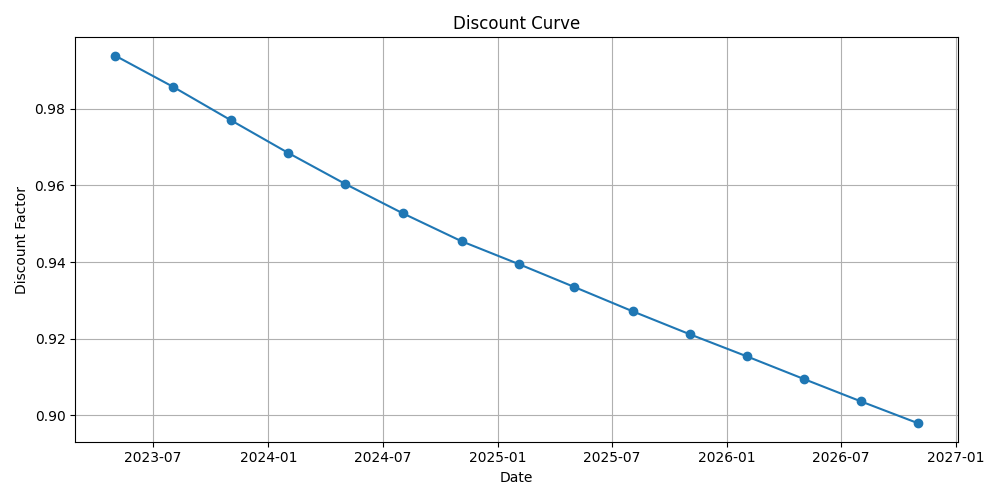
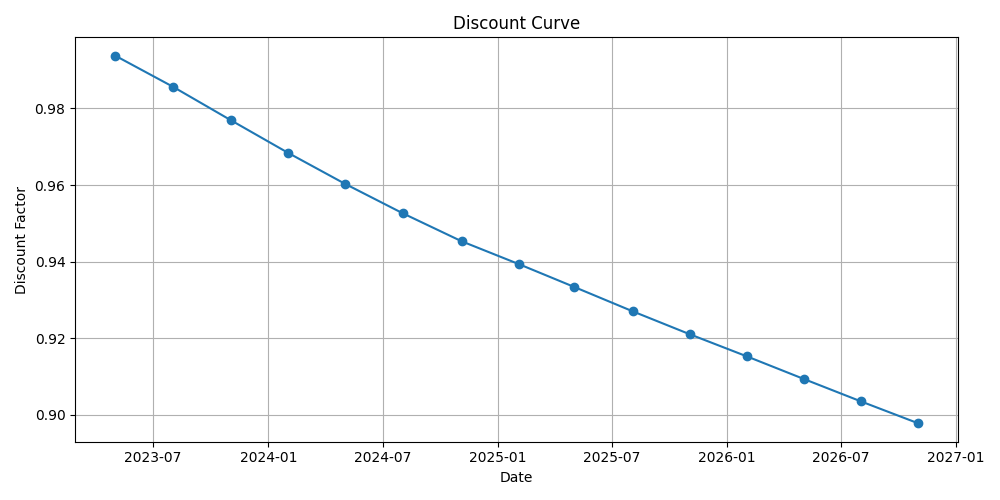
fixed the 2 day gap

diff --git a/discount_curve.py b/discount_curve.py
@@ -74,6 +74,24 @@ def calculate_curve():
     dt, df_depo, df_futures, df_swaps, settle = import_data(data_dir)
 
     dtSettle = dt.loc["Settlement", "TARGET"]
+    dtToday = dt.loc["Today", "TARGET"]
+    
+
+
+
+    try:
+        sn_maturity = dtSettle + pd.Timedelta(days=1)  # 2023-02-03
+        if sn_maturity not in df_depo.index:
+            raise KeyError(f"SN maturity {sn_maturity.date()} not found in df_depo.index")
+
+        r_sn_mid = 0.5 * (float(df_depo.loc[sn_maturity, "BID"]) + float(df_depo.loc[sn_maturity, "ASK"]))
+        tau_gap = yearfrac(dtToday, dtSettle, "ACT/360")
+        D_today_settle = 1.0 / (1.0 + r_sn_mid * tau_gap)
+    except Exception as e:
+        print("WARNING: could not compute D_today_settle from shortest deposit. "
+          "Falling back to 1.0. Error:", repr(e)) #should never fall into this exception but I0ll leve it just in case
+        D_today_settle = 1.0 
+
 
     # `df_futures` is already created in `import_data`; use first 7 points if needed
     if len(df_futures) > 7:
@@ -98,9 +116,12 @@ def calculate_curve():
         for d in payment_dates
     ]
 
+        # Convert P(Settle, T) -> P(Today, T) = P(Today, Settle) * P(Settle, T)
+    discounts_on_schedule = [D_today_settle * D for D in discounts_on_schedule]
+
     discount_curve_schedule = pd.Series(index=payment_dates, data=discounts_on_schedule)
 
-    return discount_curve_schedule
+    return discount_curve_schedule, D_today_settle, dtToday, dtSettle
 
 
 def getContinousInterestRate(D,T):
@@ -110,7 +131,7 @@ def getContinousInterestRate(D,T):
 
 
 print("Calculating discount curve...")
-discount_curve_schedule = calculate_curve()
+discount_curve_schedule, D_today_settle, dtToday, dtSettle = calculate_curve()
 print("Discount curve calculated successfully.")
 print("Interest rates at payment dates:")
 for date, discount in discount_curve_schedule.items():

diff --git a/main.py b/main.py
@@ -13,7 +13,8 @@ from FinDates.daycount import yearfrac #todo check implementation of this yearfr
 def main(N=1000000):        
     print("--------------------------------Question 1--------------------------------")
     print("Discount Curve Calculation and Structured Bond Pricing\n")
-    discount_curve_schedule = calculate_curve()
+    discount_curve_schedule, D_today_settle, dtToday, dtStart = calculate_curve()
+    print(f"D(Today->Start) = {D_today_settle:.10f}")
     
     D_0_4 = discount_curve_schedule.iloc[-1]
     last_date = discount_curve_schedule.index[-1]
@@ -42,6 +43,8 @@ def main(N=1000000):
     dts = [yearfrac(dates[i-1],dates[i], "ACT/360") for i in range (1,len(dates))]
 
     dtSettle = pd.Timestamp("2023-02-02")
+    
+
     dt_first = yearfrac(dtSettle, dates[0], "ACT/360")
     dts = [dt_first] + dts  # ora dts ha 16 elementi come discount_curve_schedule
 
@@ -49,7 +52,7 @@ def main(N=1000000):
     
 
     D_vals = discount_curve_schedule.values  # considering 16 discount factors
-    D_prev = np.concatenate([[1.0], D_vals[:-1]]) #todo not uqite sure on the 1 considering the contract starts 2 days after the stipulated date
+    D_prev = np.concatenate([[D_today_settle], D_vals[:-1]]) #todo not uqite sure on the 1 considering the contract starts 2 days after the stipulated date
 
     dts_years = np.array(dts)
 
